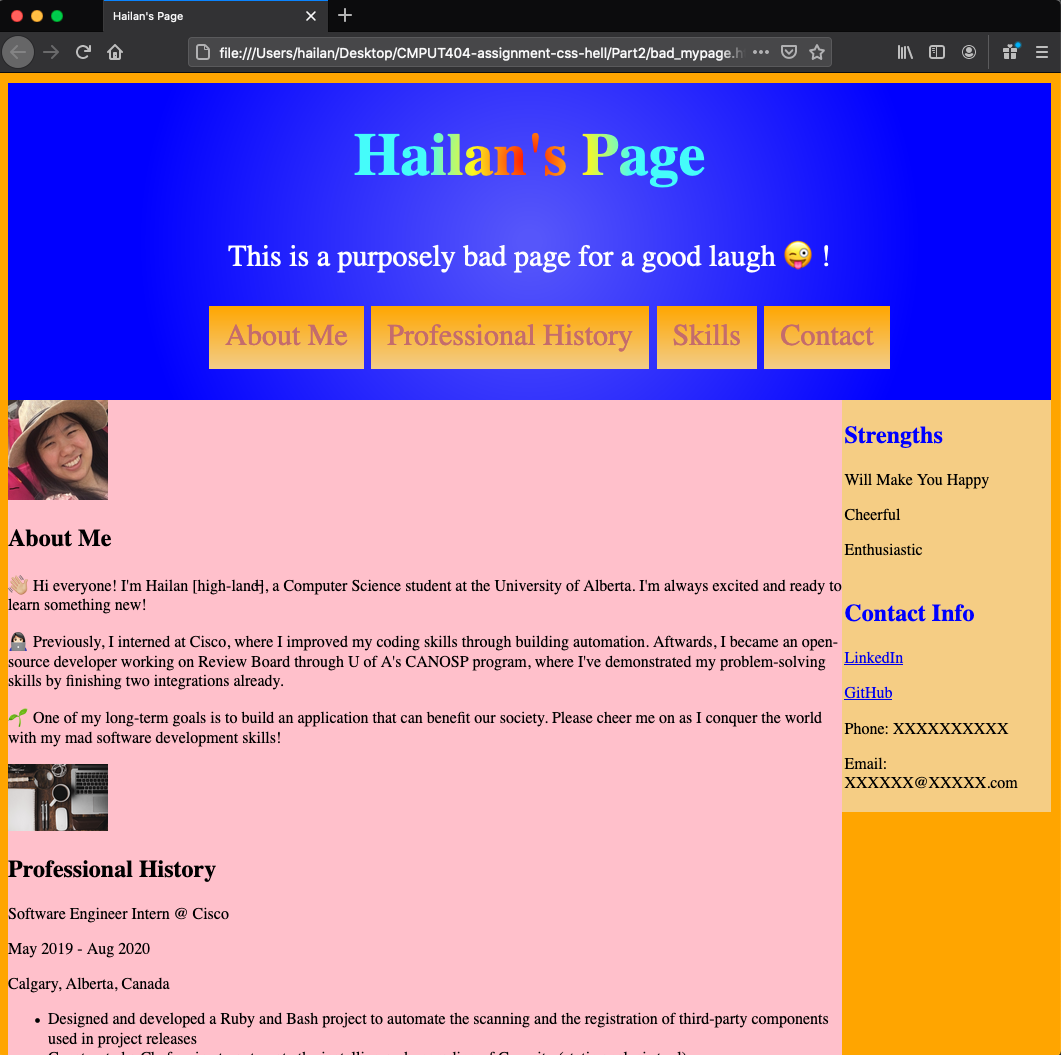
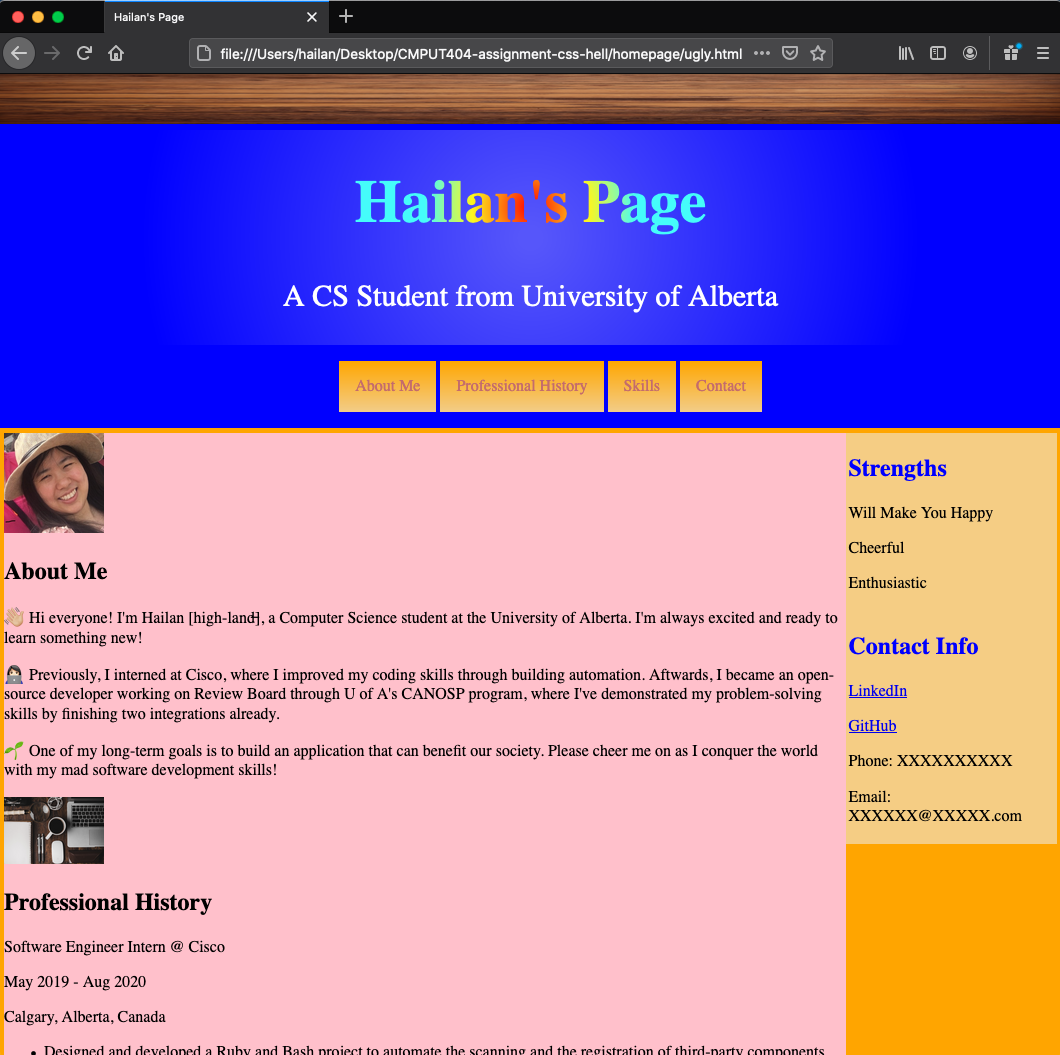
ensure html is the same

Changed region(s): [[0.0, 0.0, 1.0, 1.0], [0.0934, 0.0, 0.1868, 0.0303]]

diff --git a/homepage/ugly.html b/homepage/ugly.html
@@ -8,17 +8,19 @@
  
 </head>
 <body>
+    <img src="wood.jpeg" class="wood" height="50" width="100%" alt="wood patterned image">
     <div class="header">
         <h1>Hailan's Page</h1>
-        <p>This is a purposely bad page for a good laugh 😜 !</p>
-        <div class="navbar">
-            <ul>
-                <li><a href="#about_me">About Me</a></li>
-                <li><a href="#professional_history">Professional History</a></li>
-                <li><a href="#skills">Skills</a></li>
-                <li><a href="#contact">Contact</a></li>
-            </ul>
-        </div>
+        <p>A CS Student from University of Alberta</p>
+    </div>
+
+    <div class="navbar">
+        <ul>
+            <li><a href="#about_me">About Me</a></li>
+            <li><a href="#professional_history">Professional History</a></li>
+            <li><a href="#skills">Skills</a></li>
+            <li><a href="#contact">Contact</a></li>
+        </ul>
     </div>
 
     <div class="content">
@@ -82,5 +84,6 @@
             </div>
         </div>
     </div>
+    <img src="wood.jpeg" class="wood" height="50" width="100%" alt="wood patterned image">
 </body>
 </html>

diff --git a/homepage/ugly.css b/homepage/ugly.css
@@ -1,6 +1,11 @@
-body{
+.content{
     background-color: orange;
-    margin: 10px;
+    padding: 5px;
+}
+
+body{
+    background-color: blue;
+    margin: 0;
 }
 
 .sidebar {

diff --git a/README.md b/README.md
@@ -32,8 +32,8 @@ Part 1
 Part 2
 ======
 - Files"
-  - [good.html](./gutenberg/good.html) | [good.css](./gutenberg/good.css)
-  - [ugly.html](./gutenberg/ugly.html) | [ugly.css](./gutenberg/ugly.css)
+  - [good.html](./homepage/good.html) | [good.css](./homepage/good.css)
+  - [ugly.html](./homepage/ugly.html) | [ugly.css](./homepage/ugly.css)
 - See screenshots: 
     - [good.png](./good.png)
     - [bad.png](./bad.png)
